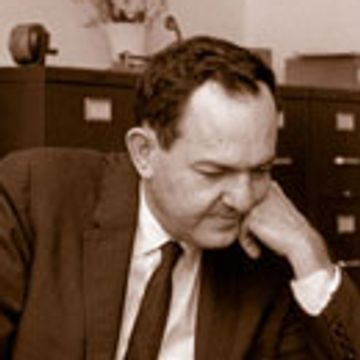
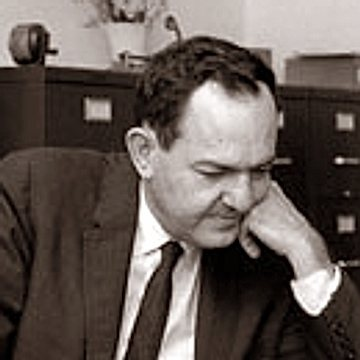
Task 16b: pioneer rail polish - sharper, tone-matched Newell portrait; Arthur Samuel gets a styled silhouette card until a free photo exists

diff --git a/pointoni/src/app/globals.css b/pointoni/src/app/globals.css
@@ -571,7 +571,24 @@ input, textarea, select {
   box-shadow: 0 0 22px rgba(255, 170, 60, 0.55), 0 0 48px rgba(255, 31, 46, 0.3);
 }
 .pioneer-card[data-center="1"] .pioneer-photo img { filter: none; }
-.pioneer-initials { font-weight: 900; font-size: 30px; letter-spacing: 0.08em; color: #ffd68a; }
+.pioneer-silhouette {
+  position: relative;
+  display: block;
+  width: 100%;
+  height: 100%;
+  color: rgba(255, 190, 80, 0.2);
+  background: radial-gradient(circle at 50% 30%, #1b2536 0%, #0b0f17 75%);
+}
+.pioneer-initials {
+  position: absolute;
+  inset: auto 0 12%;
+  text-align: center;
+  font-weight: 900;
+  font-size: 17px;
+  letter-spacing: 0.14em;
+  color: #ffd68a;
+  text-shadow: 0 0 10px rgba(0, 0, 0, 0.9);
+}
 .pioneer-name {
   margin-top: 10px;
   font-size: 12px;

diff --git a/pointoni/src/components/home/PioneerRail.tsx b/pointoni/src/components/home/PioneerRail.tsx
@@ -27,8 +27,12 @@ function Card({ p }: { p: Pioneer }) {
           // eslint-disable-next-line @next/next/no-img-element
           <img src={p.image} alt={p.name} width={180} height={180} draggable={false} />
         ) : (
-          <span aria-hidden className="pioneer-initials">
-            {initials(p.name)}
+          <span aria-hidden className="pioneer-silhouette">
+            <svg viewBox="0 0 100 100" className="h-full w-full">
+              <circle cx="50" cy="38" r="17" fill="currentColor" />
+              <path d="M16 100c0-22 15-36 34-36s34 14 34 36z" fill="currentColor" />
+            </svg>
+            <span className="pioneer-initials">{initials(p.name)}</span>
           </span>
         )}
       </div>
